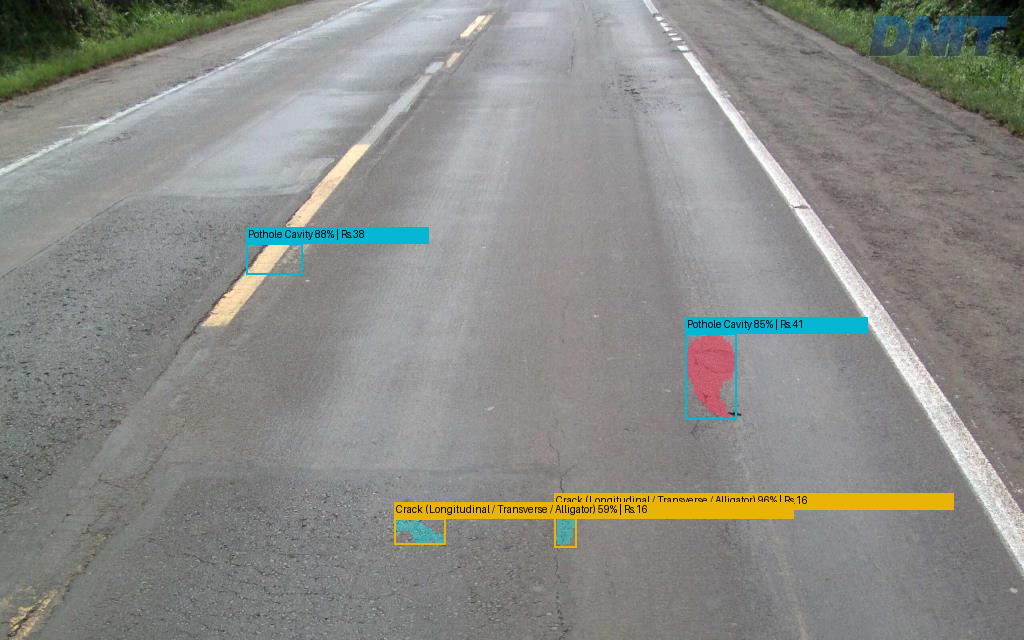
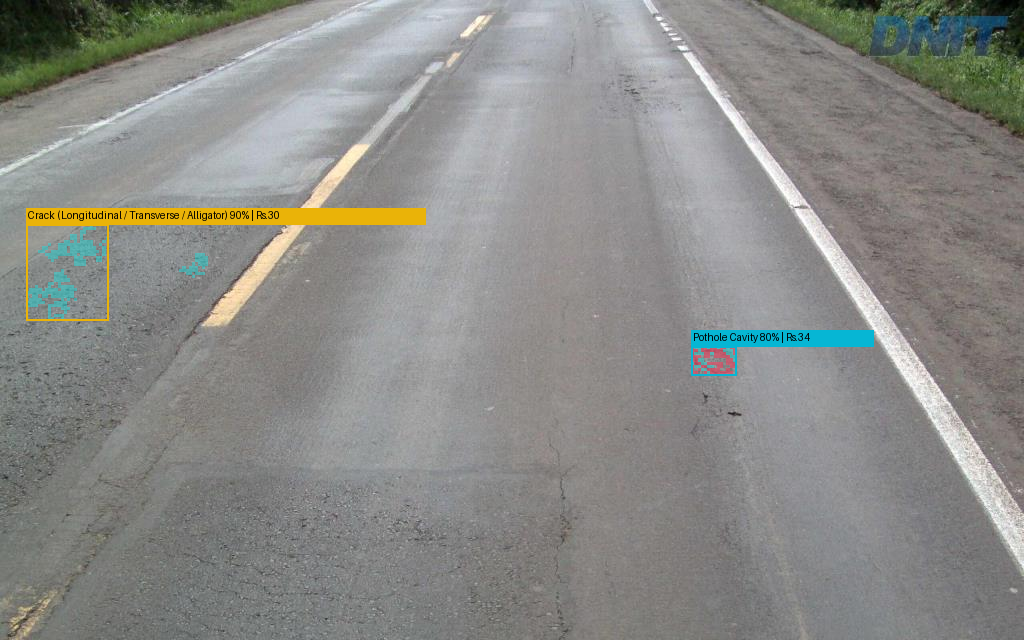
fix(pipeline): unify crater rim proposals, filter sidewalk kerb artifacts, and segment specular rainwater cavities

Changed region(s): [[0.0, 0.3125, 0.4375, 0.5], [0.375, 0.75, 0.9375, 0.875], [0.6562, 0.4688, 0.875, 0.6562]]

diff --git a/api/vercel_inference.py b/api/vercel_inference.py
@@ -879,9 +879,17 @@ def _fuse_and_cluster_boxes(raw_boxes, W, H, max_boxes=3):
             comb_h = max(y2, cy2) - min(y1, cy1)
             gap_x = max(0, max(x1, cx1) - min(x2, cx2))
             gap_y = max(0, max(y1, cy1) - min(y2, cy2))
+            horiz_overlap = inter_w / float(max(1, min(bw, cbw)))
             is_proximate = (gap_x <= int(W * 0.04) and gap_y <= int(H * 0.03) and comb_w <= int(W * 0.40) and comb_h <= int(H * 0.30))
+            is_crater_complex = (
+                horiz_overlap >= 0.35
+                and gap_y <= int(H * 0.14)
+                and comb_w <= int(W * 0.55)
+                and comb_h <= int(H * 0.55)
+                and (comb_w * comb_h) <= int(W * H * 0.33)
+            )
 
-            if iou >= 0.18 or containment >= 0.40 or is_proximate:
+            if iou >= 0.18 or containment >= 0.40 or is_proximate or is_crater_complex:
                 matched.append(ci)
         if not matched:
             clusters.append([b])
@@ -1258,6 +1266,9 @@ def audit_image_base64(image_b64, corridor_id="NH-44", device_id=None, latitude=
         bx, by, bw, bh = prop["bbox_pixels"]
         if bw < 14 or bh < 10:
             continue
+        # Reject sidewalk kerb / frame border artifacts (e.g. raised pavement margins in upper road zone)
+        if (bx < 20 or bx + bw > W - 20) and by < int(H * 0.50) and (bw * bh) < int(0.04 * W * H):
+            continue
         comp = prop["seg_comp"]
 
         # Expand crop with 20% context margin (minimum 96x96 px) for MobileNetV3-Large verification
@@ -1407,14 +1418,24 @@ def audit_image_base64(image_b64, corridor_id="NH-44", device_id=None, latitude=
                 gap_y = max(0, max(b1[1], b2[1]) - min(b1[1] + b1[3], b2[1] + b2[3]))
                 comb_w = max(b1[0] + b1[2], b2[0] + b2[2]) - min(b1[0], b2[0])
                 comb_h = max(b1[1] + b1[3], b2[1] + b2[3]) - min(b1[1], b2[1])
+                horiz_inter = max(0, min(b1[0] + b1[2], b2[0] + b2[2]) - max(b1[0], b2[0]))
+                horiz_overlap = horiz_inter / float(max(1, min(b1[2], b2[2])))
                 is_proximate = (
                     gap_x <= int(W * 0.02)
                     and gap_y <= int(H * 0.02)
                     and comb_w <= int(W * 0.32)
                     and comb_h <= int(H * 0.25)
                 )
+                is_crater_complex = (
+                    d["class_id"] == md["class_id"]
+                    and horiz_overlap >= 0.35
+                    and gap_y <= int(H * 0.14)
+                    and comb_w <= int(W * 0.55)
+                    and comb_h <= int(H * 0.55)
+                    and (comb_w * comb_h) <= int(W * H * 0.33)
+                )
 
-                if iou > 0.25 or containment > 0.50 or is_proximate:
+                if iou > 0.25 or containment > 0.50 or is_proximate or is_crater_complex:
                     matched = mi
                     break
 
@@ -1509,6 +1530,7 @@ def audit_image_base64(image_b64, corridor_id="NH-44", device_id=None, latitude=
 
     # STAGE 5: Refine surface area and repair metrics using genuine U-Net segmentation mask
     if detections and seg_out and mask_full is not None:
+        mask_full = np.array(mask_full, copy=True)
         for d in detections:
             if d.get("bbox_pixels"):
                 bx, by, bw, bh = d["bbox_pixels"]
@@ -1516,6 +1538,33 @@ def audit_image_base64(image_b64, corridor_id="NH-44", device_id=None, latitude=
                 region_bool = np.zeros((H, W), dtype=bool)
                 region_bool[by:by + bh, bx:bx + bw] = (mask_full[by:by + bh, bx:bx + bw] == cls_id)
                 px_c = int(region_bool.sum())
+
+                # If the segmenter mask is sparse/empty for this confirmed defect (e.g. water-filled pothole or specular puddle),
+                # perform adaptive photometric cavity and puddle segmentation inside the confirmed defect bounding box
+                if px_c < 25:
+                    from PIL import Image, ImageFilter
+                    crop_gray = gray[by:by + bh, bx:bx + bw]
+                    road_med = float(np.median(gray[int(H * 0.35):, :]))
+                    pil_cg = Image.fromarray(np.clip(crop_gray, 0, 255).astype(np.uint8), mode="L")
+                    blurred_cg = np.asarray(pil_cg.filter(ImageFilter.BoxBlur(3)), dtype=np.float32)
+                    diff_cg = np.abs(crop_gray - blurred_cg)
+
+                    if cls_id == 2:  # Pothole cavity: dark depression or specular standing water
+                        is_dark_cavity = crop_gray < min(114.0, road_med - 6.0)
+                        is_water_puddle = (diff_cg < 6.5) & (crop_gray > 115.0)
+                        local_mask = is_dark_cavity | is_water_puddle
+                    else:  # Crack: high gradient edges darker than road median
+                        gy_c, gx_c = np.gradient(crop_gray)
+                        gmag_c = np.hypot(gx_c, gy_c)
+                        local_mask = (gmag_c > 22.0) & (crop_gray < road_med)
+
+                    if int(local_mask.sum()) >= 25:
+                        sub_patch = mask_full[by:by + bh, bx:bx + bw].copy()
+                        sub_patch[local_mask] = cls_id
+                        mask_full[by:by + bh, bx:bx + bw] = sub_patch
+                        region_bool[by:by + bh, bx:bx + bw] = local_mask
+                        px_c = int(local_mask.sum())
+
                 box_m2 = round(float(ipm.calculate_surface_area_sqm(bx, by, bw, bh)), 4)
                 box_m2 = float(max(0.04, min(box_m2, 3.0)))
                 if px_c >= 25:
@@ -1543,6 +1592,16 @@ def audit_image_base64(image_b64, corridor_id="NH-44", device_id=None, latitude=
                 if d.get("depth_estimate"):
                     d["depth_estimate"]["repair_cost_low_inr"] = round(d["surface_area_m2"] * (d["depth_estimate"]["depth_low_cm"] / 100.0) * 2.40 * 1.15 * 7500.0, 2)
                     d["depth_estimate"]["repair_cost_high_inr"] = round(d["surface_area_m2"] * (d["depth_estimate"]["depth_high_cm"] / 100.0) * 2.40 * 1.15 * 7500.0, 2)
+
+    if detections and seg_out and mask_full is not None:
+        seg_out["mask"] = mask_full
+        seg_out["crack_px_full"] = int((mask_full == 1).sum())
+        seg_out["pothole_px_full"] = int((mask_full == 2).sum())
+        seg_out["defect_fraction"] = round(float((mask_full != 0).mean()), 4)
+        if int((mask_full != 0).sum()) > 0:
+            from PIL import Image
+            mask_work = np.asarray(Image.fromarray(mask_full, mode="L").resize((WORK_W, WORK_H), Image.Resampling.NEAREST), dtype=np.uint8)
+            seg_out["mask_data_url"] = _mask_to_data_url(mask_work)
 
     # If no road defect was confirmed, zero out the segmentation mask so rejected noise blobs are not counted
     if not detections and seg_out:
